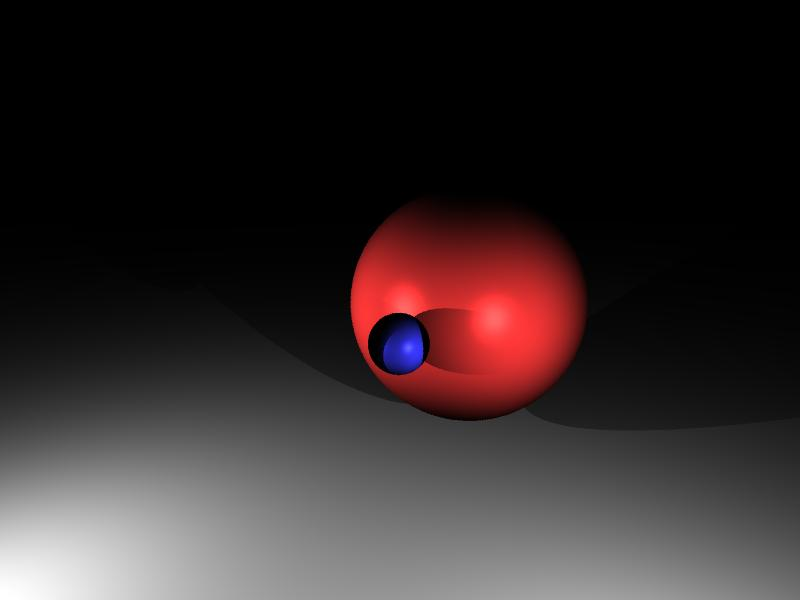
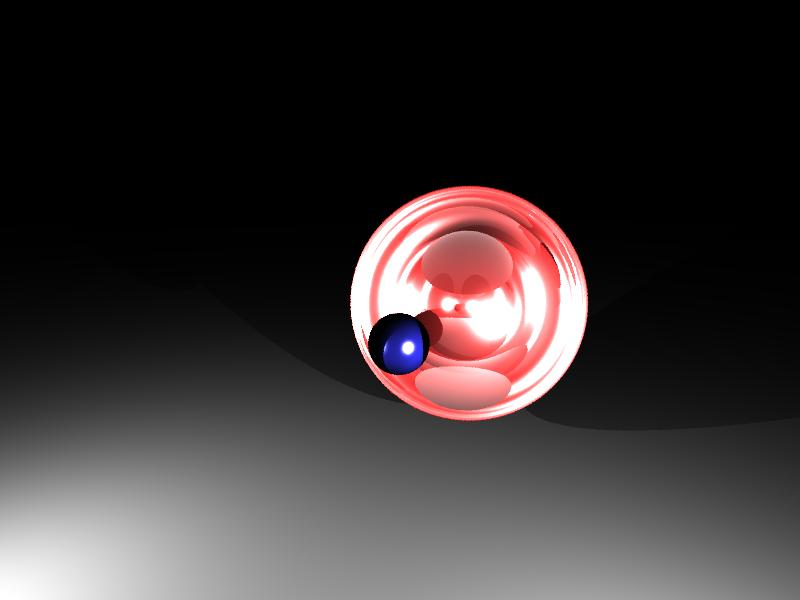
WIP Reflections

Changed region(s): [[0.4375, 0.3, 0.75, 0.72]]

diff --git a/src/main/kotlin/com/labco/raytracer/RayTracer.kt b/src/main/kotlin/com/labco/raytracer/RayTracer.kt
@@ -1,37 +1,37 @@
 package com.labco.raytracer
 
 import com.labco.raytracer.material.FloatColor
-import kotlinx.coroutines.Dispatchers
-import kotlinx.coroutines.launch
-import kotlinx.coroutines.runBlocking
+import kotlinx.coroutines.*
 
 class RayTracer {
 
     fun renderScene(scene: Scene, samples: Int): Array<Array<FloatColor>> {
+        val rays = scene.camera.generateRays(samples)
+        val rayBatches = rays.chunked(rays.size / 10)
         runBlocking {
-            val rays = scene.camera.generateRays(samples)
-            println("Number of rays ${rays.size}")
-            val rayBatches = rays.chunked(rays.size / 10)
             rayBatches.forEach { batch ->
                 launch(Dispatchers.IO) {
-                    val iterator = batch.toMutableList().listIterator()
-                    while (iterator.hasNext()) {
-
-                        val ray = iterator.next()
-                        ray.let {
-                            val closestIntersection = scene.getObjectIntersection(it.origin, it.direction)
-                            if (closestIntersection != null) {
-                                val reflectedRay =
-                                    closestIntersection.sceneObject.reflect(it, closestIntersection.intersectionPoint)
-                                reflectedRay.color = scene.getColorFromLights(closestIntersection, reflectedRay)
-                                scene.camera.sensor.pixels[it.sensorX][it.sensorY] += reflectedRay.color / samples
-                            }
-                            //                iterator.set(reflectedRay)
-                        }
+                    batch.forEach { ray ->
+                        scene.camera.sensor.pixels[ray.sensorX][ray.sensorY] += castRay(ray, scene, 5) / samples
                     }
                 }
             }
         }
         return scene.camera.sensor.pixels
+    }
+
+    private fun castRay(ray: Ray, scene: Scene, reflectionCount: Int, color: FloatColor = FloatColor.BLACK): FloatColor {
+        if (reflectionCount == 0) return color
+        val closestIntersection = scene.getObjectIntersection(ray.origin, ray.direction)
+        if (closestIntersection != null) {
+            val reflectedRay = closestIntersection.sceneObject.reflect(ray, closestIntersection.intersectionPoint)
+            val passColor = color + (scene.getIntersectionColor(closestIntersection, reflectedRay) * ray.energy)
+            return if(reflectedRay.energy <= 0f) {
+                passColor
+            } else {
+                castRay(reflectedRay, scene, reflectionCount - 1, passColor)
+            }
+        }
+        return color
     }
 }

diff --git a/src/main/kotlin/com/labco/raytracer/Main.kt b/src/main/kotlin/com/labco/raytracer/Main.kt
@@ -8,12 +8,13 @@ import java.awt.Color
 import java.awt.image.BufferedImage
 import java.io.File
 import javax.imageio.ImageIO
+import kotlin.math.max
 
 
 private val rayTracer = RayTracer()
 private val sphereMaterial1 = Material(FloatColor(0.5f, 0.5f, 1f), 10f, 1f, 0f)
 private val sphereMaterial2 = Material(FloatColor(0.5f, 1f, 0.5f), 10f, 1f, 0f)
-private val sphereMaterial3 = Material(FloatColor(1f, 0.5f, 0.5f), 10f, 1f, 0f)
+private val sphereMaterial3 = Material(FloatColor(1f, 0.5f, 0.5f), 10f, 1f, 0.9f)
 private val sphereMaterial4 = Material(FloatColor(1f, 1f, 1f), 1f, 0f, 0f)
 private val sphere1 = Sphere(Vector3(1.5f, 0f, 4f), 1f, sphereMaterial1)
 private val sphere2 = Sphere(Vector3(-4.5f, 0f, 4f), 1f, sphereMaterial2)
@@ -40,12 +41,39 @@ fun main() {
 
     val bufferedImage = BufferedImage(bitmap.size, bitmap.first().size, BufferedImage.TYPE_INT_RGB)
     bitmap.flip()
+
     bitmap.forEachIndexed { xIndex, x ->
         x.forEachIndexed { yIndex, color ->
-            bufferedImage.setRGB(xIndex, yIndex, Color(color.r, color.g, color.b, 1f).rgb)
+//            color.coerce()
+            val hdrColor = hdr(color)
+            bufferedImage.setRGB(
+                xIndex,
+                yIndex,
+                Color(hdrColor.r, hdrColor.g, hdrColor.b, 1f).rgb
+            )
         }
     }
     val outputfile = File("image.jpg")
     ImageIO.write(bufferedImage, "jpg", outputfile)
     Runtime.getRuntime().exec("open image.jpg")
+}
+
+fun hdr(color: FloatColor): FloatColor {
+    val weightR = 0.124f
+    val weightG = 0.68f
+    val weightB = 0.195f
+    val max = max(max(color.r, color.g), color.b)
+    if(max > 1) {
+        val l = (color.r * weightR) + (color.g * weightG) + (color.b * weightB)
+        return if(l < 1) {
+            val t = (1 - l) / (max - l)
+            FloatColor((color.r * t) + (l * (1f-t)),
+                (color.g * t) + (l * (1f-t)),
+                (color.b * t) + (l * (1f-t))
+            )
+        } else {
+            FloatColor.WHITE
+        }
+    }
+    return color
 }

diff --git a/src/main/kotlin/com/labco/raytracer/light/PointLight.kt b/src/main/kotlin/com/labco/raytracer/light/PointLight.kt
@@ -16,22 +16,14 @@ data class PointLight(
     override fun getDiffuseColor(intersectionPoint: RayIntersectionPoint, material: Material): FloatColor {
         val pointToLightVector = (this.position - intersectionPoint.position).toUnitVector3()
         val coefficient =  (pointToLightVector dot intersectionPoint.normal).coerceAtLeast(0f)
-        return if (coefficient > 0) (material.color * color * (1 - material.reflectiveness) * coefficient).toGamma() else FloatColor.BLACK
+        return if (coefficient > 0) (material.color * color * coefficient).toGamma() else FloatColor.BLACK
     }
-
-//    fun getSpecularReflection(intersectionPoint: RayIntersectionPoint, reflectedRay: Ray, material: Material, lookDirection: UnitVector3): FloatColor {
-//        val intersectionPointToLightVector = (this.position - intersectionPoint.position).toUnitVector3()
-//        val mirrorDirection = (-intersectionPointToLightVector + (2f * (intersectionPoint.normal dot intersectionPointToLightVector) * intersectionPoint.normal))
-//        val phong = material.specularCoefficient * (-lookDirection dot mirrorDirection).coerceAtLeast(0f).pow(material.shininess)
-//        return phong * (material.specularColor * this.color)
-//    }
 
     override fun getSpecularColor(intersectionPoint: RayIntersectionPoint, reflectedRay: Ray, material: Material): FloatColor {
         val intersectionPointToLightVector = (this.position - intersectionPoint.position).toUnitVector3()
         val specularReflection = reflectedRay.direction.dot(intersectionPointToLightVector).coerceAtLeast(0f)
         if (specularReflection > 0)
-            return (specularReflection.pow(material.shininess) * material.specularCoefficient
-                    * ((material.color * (1 - material.reflectiveness)) + (this.color * material.reflectiveness))).toGamma()
+            return (specularReflection.pow(material.shininess) * material.specularCoefficient * (material.color + this.color)).toGamma()
         return FloatColor.BLACK
     }
 

diff --git a/src/main/kotlin/com/labco/raytracer/material/FloatColor.kt b/src/main/kotlin/com/labco/raytracer/material/FloatColor.kt
@@ -15,29 +15,34 @@ data class FloatColor(var r: Float, var g: Float, var b: Float) {
 
     // todo fix this ugly mess
     operator fun times(color: FloatColor): FloatColor {
-        val r = (this.r * color.r).coerceIn(0f, 1f)
-        val g = (this.g * color.g).coerceIn(0f, 1f)
-        val b = (this.b * color.b).coerceIn(0f, 1f)
+        val r = (this.r * color.r)
+        val g = (this.g * color.g)
+        val b = (this.b * color.b)
         return FloatColor(r, g, b)
     }
 
     operator fun times(float: Float): FloatColor {
-        return FloatColor((r * float).coerceIn(0f, 1f), (g * float).coerceIn(0f, 1f), (b * float).coerceIn(0f, 1f))
+        return FloatColor((r * float), (g * float), (b * float))
     }
 
     operator fun plus(color: FloatColor): FloatColor {
-        val r = (this.r + color.r).coerceIn(0f, 1f)
-        val g = (this.g + color.g).coerceIn(0f, 1f)
-        val b = (this.b + color.b).coerceIn(0f, 1f)
+        val r = (this.r + color.r)
+        val g = (this.g + color.g)
+        val b = (this.b + color.b)
         return FloatColor(r, g, b)
     }
 
     operator fun minus(color: FloatColor): FloatColor {
-        val r = (this.r - color.r).coerceIn(0f, 1f)
-        val g = (this.g - color.g).coerceIn(0f, 1f)
-        val b = (this.b - color.b).coerceIn(0f, 1f)
+        val r = (this.r - color.r)
+        val g = (this.g - color.g)
+        val b = (this.b - color.b)
         return FloatColor(r, g, b)
     }
 
     operator fun div(integer: Int) = FloatColor(this.r / integer.toFloat(), this.g / integer.toFloat(), this.b / integer.toFloat())
+    fun coerce() {
+        this.r = this.r.coerceIn(0f, 1f)
+        this.g = this.g.coerceIn(0f, 1f)
+        this.b = this.b.coerceIn(0f, 1f)
+    }
 }

diff --git a/src/main/kotlin/com/labco/raytracer/primitives/Sphere.kt b/src/main/kotlin/com/labco/raytracer/primitives/Sphere.kt
@@ -11,7 +11,8 @@ data class Sphere(var position: Vector3, var radius: Float, override var materia
         val reflectionDirection = (2 * (intersectionPoint.normal dot -ray.direction) * intersectionPoint.normal + ray.direction).toUnitVector3()
         return ray.copy(
             origin = intersectionPoint.position,
-            direction = reflectionDirection
+            direction = reflectionDirection,
+            energy = ray.energy + this.material.reflectiveness - 1f
         )
     }
 

diff --git a/src/main/kotlin/com/labco/raytracer/Scene.kt b/src/main/kotlin/com/labco/raytracer/Scene.kt
@@ -26,7 +26,7 @@ class Scene {
         return intersections.filterNotNull().minByOrNull { it.distanceToIntersectionPoint }
     }
 
-    fun getColorFromLights(intersection: Intersection, ray: Ray): FloatColor {
+    fun getIntersectionColor(intersection: Intersection, ray: Ray): FloatColor {
         var newRayColor = FloatColor.BLACK
         lights.forEach {
             val intersectionToLightVector = (it.position - intersection.intersectionPoint.position).toUnitVector3()

diff --git a/src/main/kotlin/com/labco/raytracer/Ray.kt b/src/main/kotlin/com/labco/raytracer/Ray.kt
@@ -10,7 +10,7 @@ data class Ray(
     var direction: UnitVector3,
     val sensorX: Int,
     val sensorY: Int,
-    var color: FloatColor = FloatColor(1f, 1f, 1f)
+    var energy: Float = 1f
 ) {
 
     fun getIntersection(sphere: Sphere): RayIntersectionPoint? {
